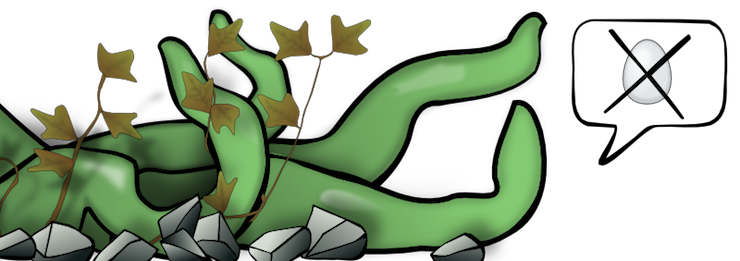
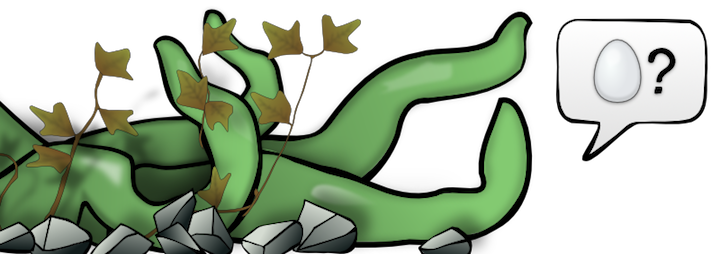
Bug 29. Cambio imagen incubadora cuando no hay huevos. También ajustados algunos efectos para llamar la atención en los mensajes de las acciones del monstruo y puesto más brillo en la imagen de PapaMonstruo de la guarida para que se vea mejor al poner el ratón encima.

diff --git a/src/main/java/es/engade/thearsmonsters/model/util/MonsterName.java b/src/main/java/es/engade/thearsmonsters/model/util/MonsterName.java
@@ -67,6 +67,7 @@ public class MonsterName {
 		"Bombat",
 		"Bob",
 		"Bombastico",
+		"Burcio",
 		
 		"Charles",		
 		"Cabezadura",
